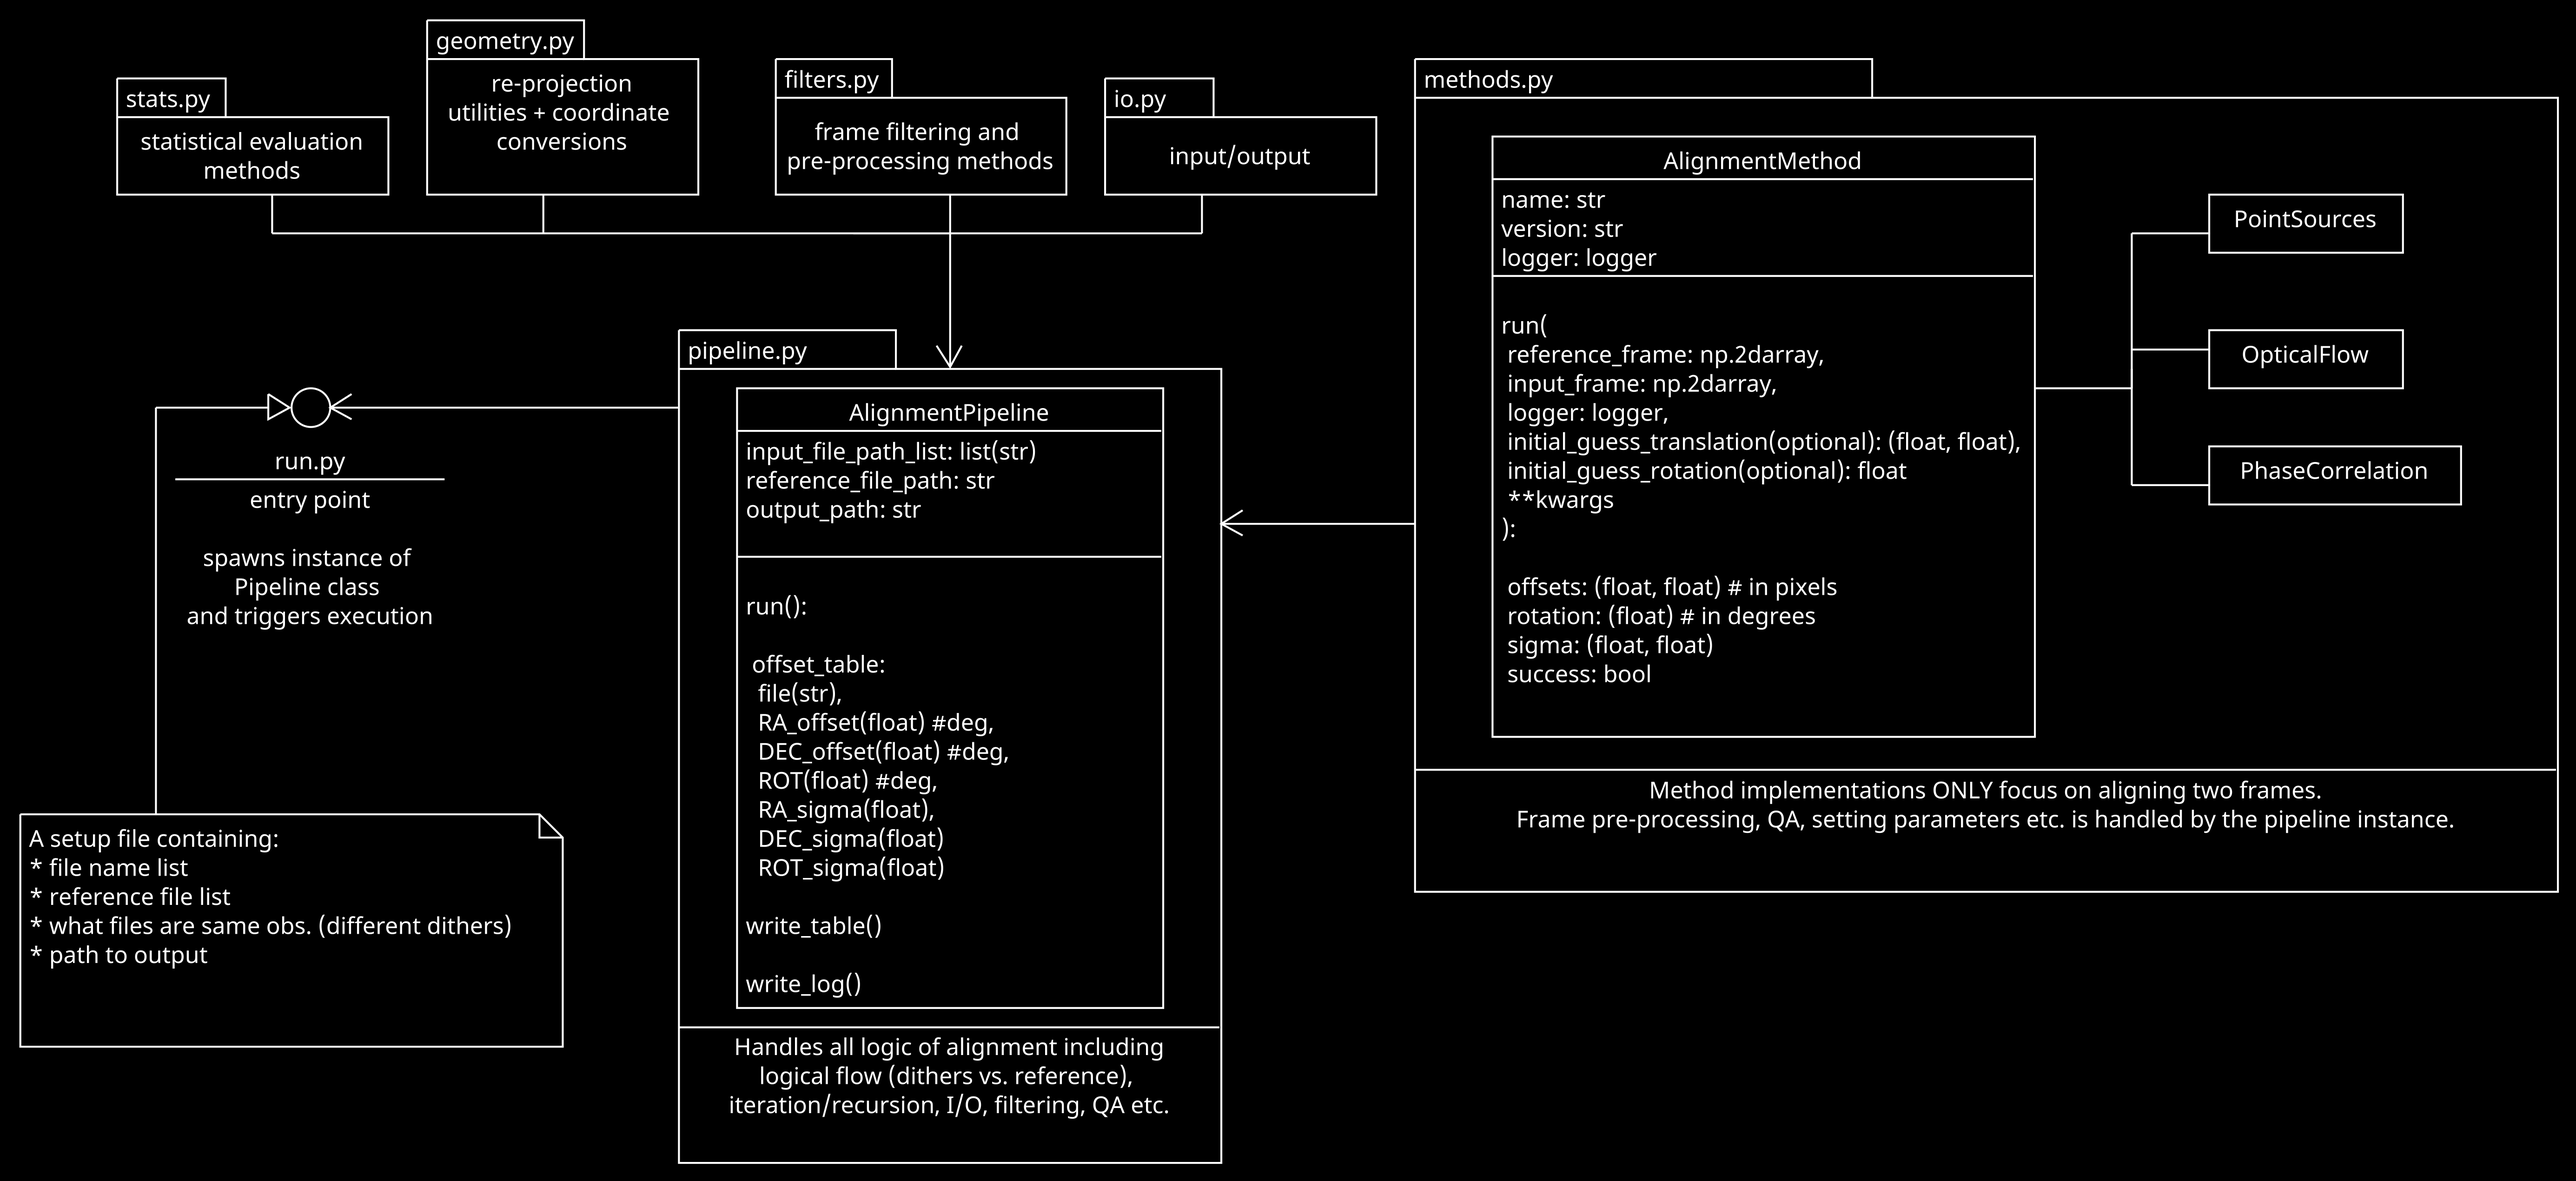
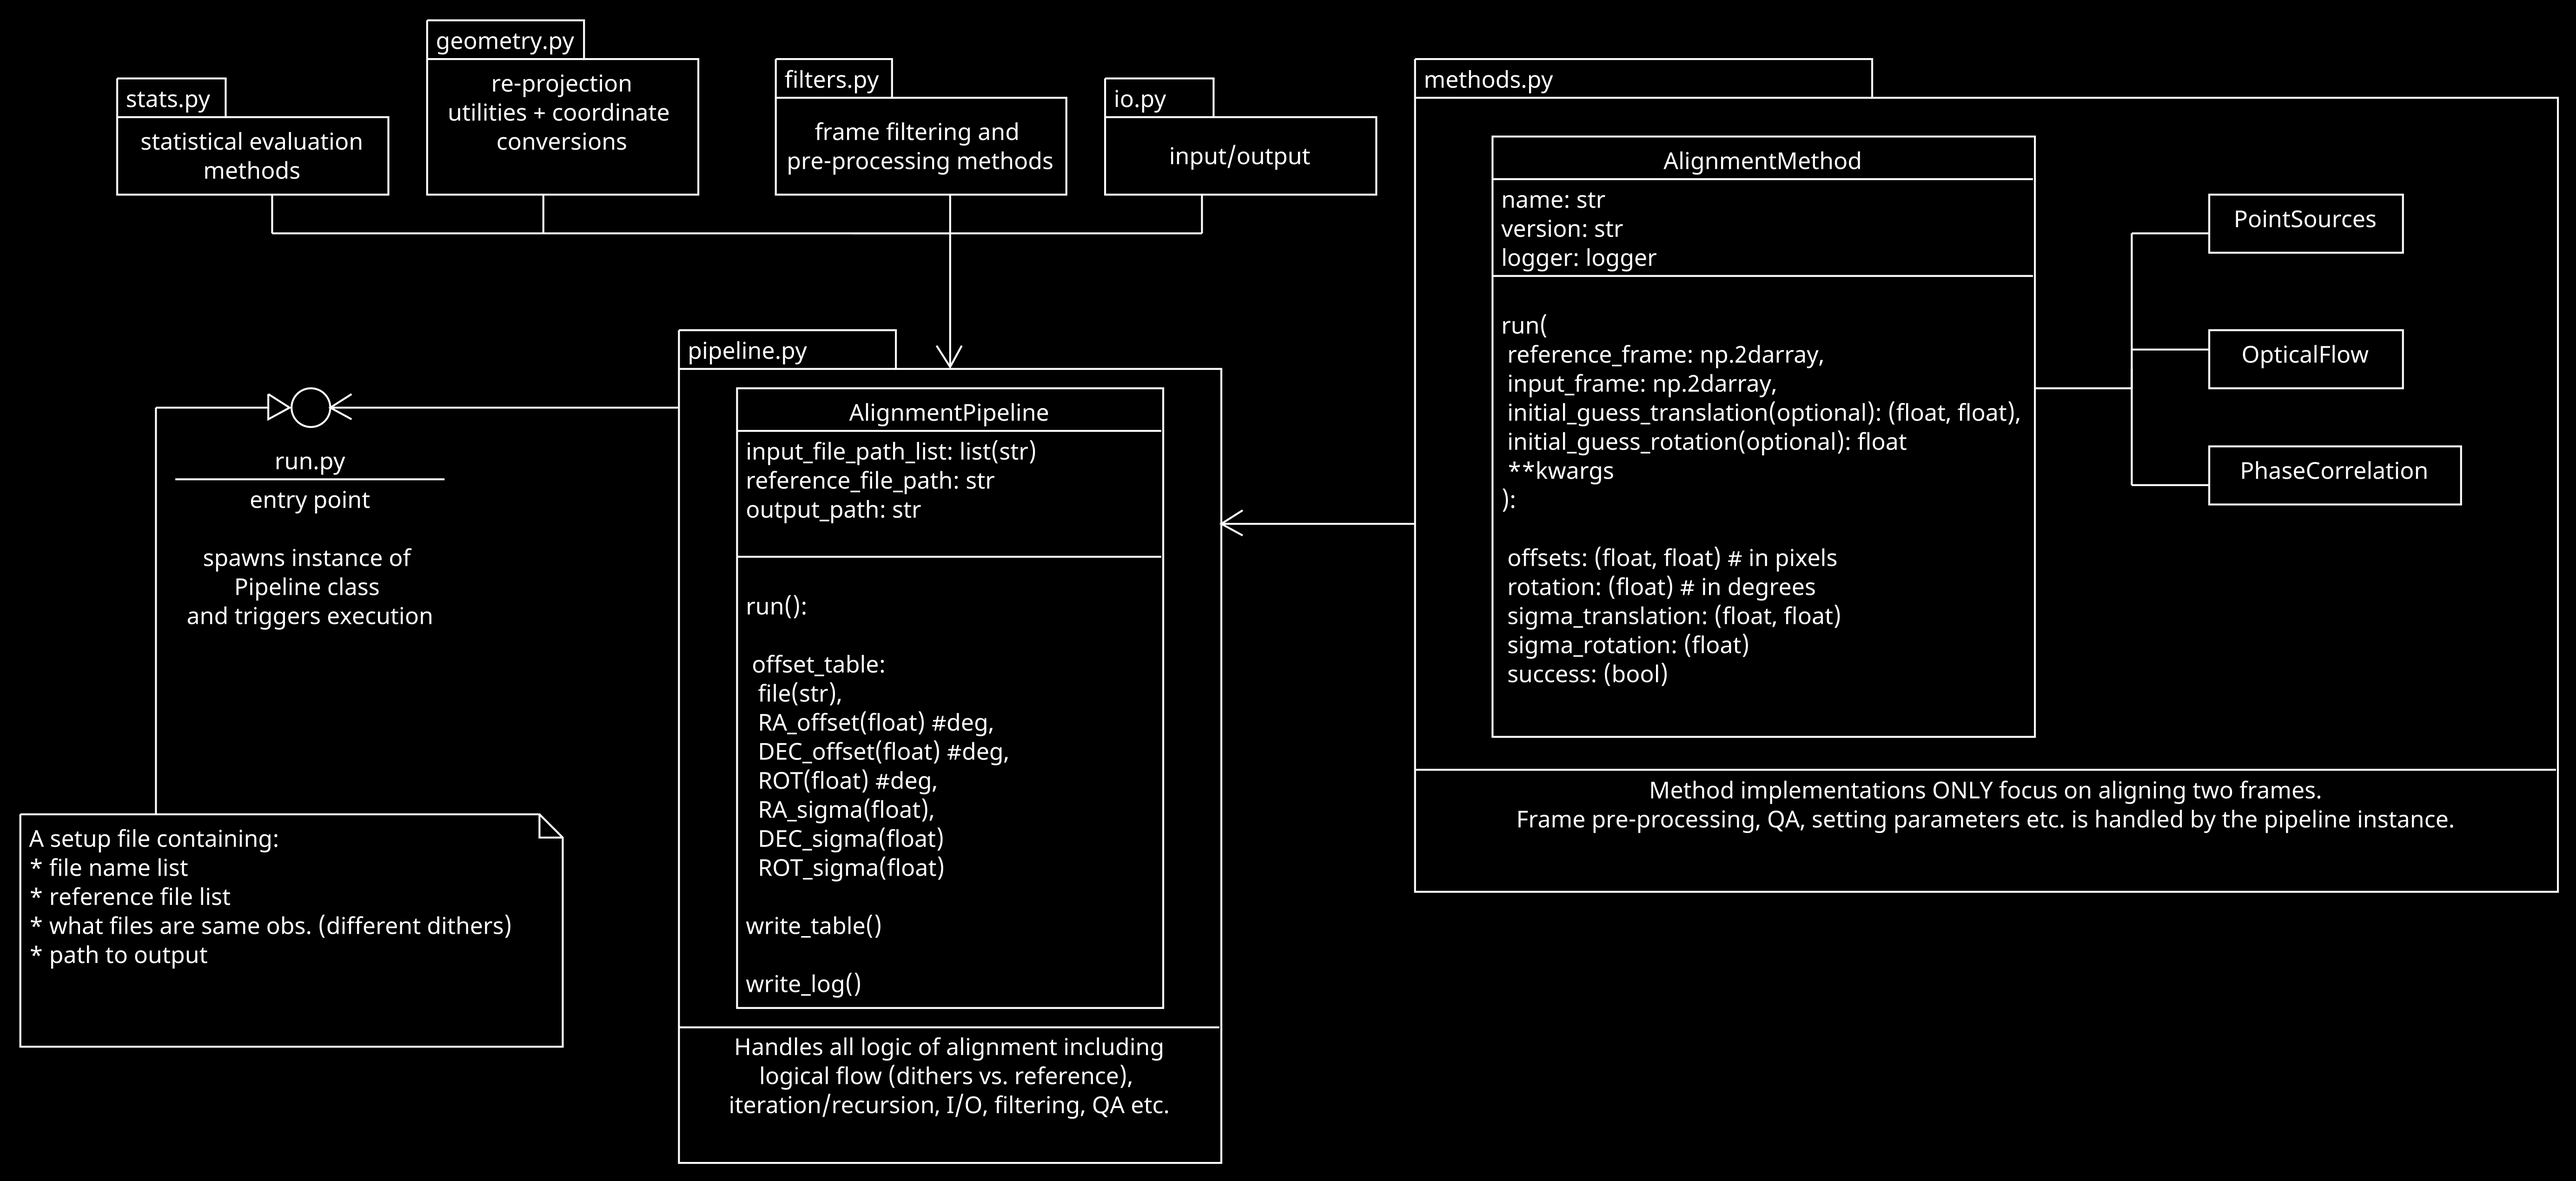
abstract class added for all aligment methods

Changed region(s): [[0.5932, 0.4664, 0.7181, 0.5907], [0.5932, 0.342, 0.7805, 0.4353]]

diff --git a/src/methods.py b/src/methods.py
@@ -1,0 +1,79 @@
+from abc import ABC, abstractmethod
+
+
+class AligmentMethod(ABC):
+    """
+    Abstract base class for all alignment methods.
+
+    This class defines the interface that all alignment methods must implement.
+    """
+
+    def __init__(self, name, version, logger=None):
+        """
+        Initialize the alignment method.
+
+        Parameters
+        ----------
+        name : str
+            Name of the alignment method.
+
+        version :
+            Version of the alignment method.
+
+        logger: Optional
+            Logger object for logging messages.
+        """
+
+        self.name = name
+        self.version = version
+        self.logger = logger
+
+    @abstractmethod
+    def run(
+        self,
+        reference_frame,
+        input_frame,
+        initial_guess_translation=(None, None),
+        initial_guess_rotation=None,
+        **kwargs
+    ):
+        """
+        Align the target image to the reference image.
+
+        Parameters
+        ----------
+
+        reference_frame : np.2darray
+            The reference image to which the target image will be aligned.
+            Must be the same shape and scale as the input_frame.
+
+        input_frame : np.2darray
+            The target image that needs to be aligned to the reference image.
+
+        initial_guess_translation : tuple, optional
+            Initial guess for the translation (x, y) in pixels.
+
+        initial_guess_rotation : float, optional
+            Initial guess for the rotation in degrees.
+
+        **kwargs : dict
+            Additional keyword arguments specific to the alignment method.
+
+        Returns
+        -------
+        offsets: tuple
+            The calculated offsets (x_offset, y_offset) in pixels.
+
+        rotation: float
+            The calculated rotation in degrees.
+
+        sigma_translation: tuple
+            The uncertainty in the calculated translation (sigma_x, sigma_y) in pixels.
+
+        sigma_rotation: float
+            The uncertainty in the calculated rotation in degrees.
+
+        success: bool
+            True if the alignment was successful, False otherwise.
+        """
+        pass
